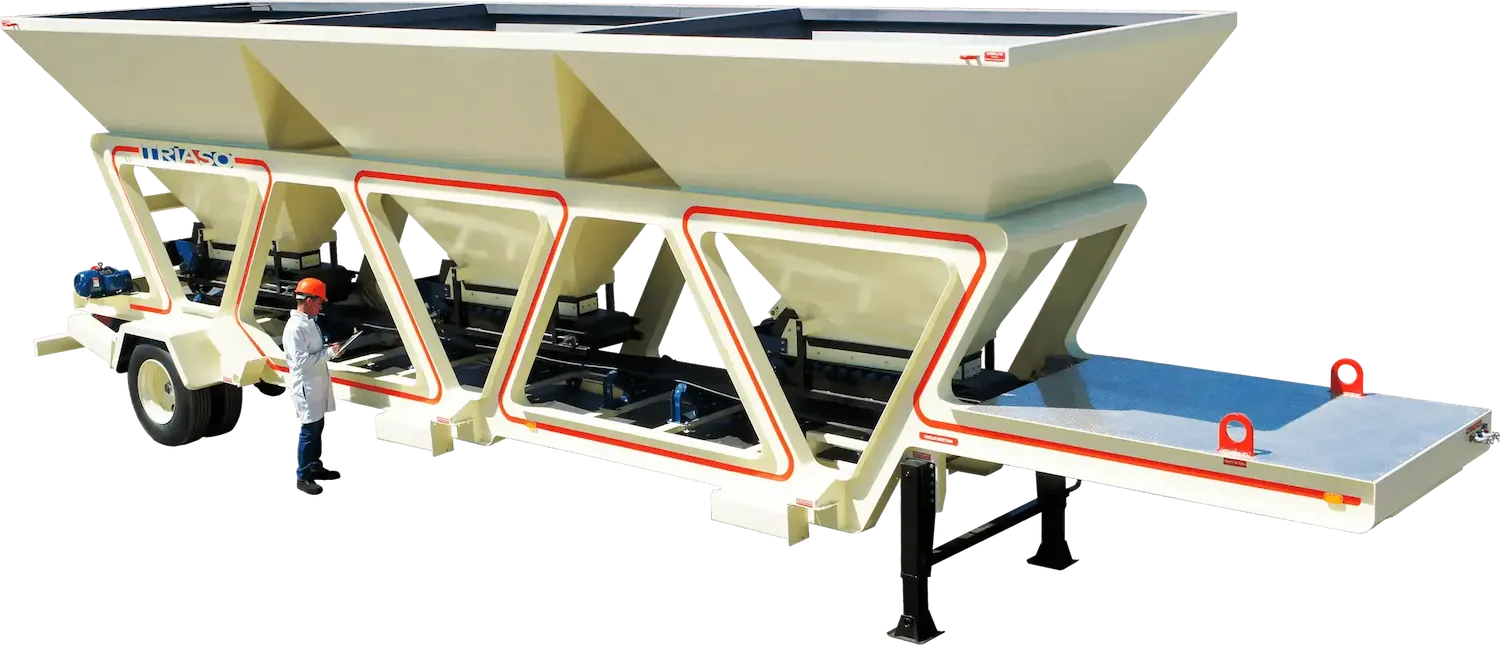
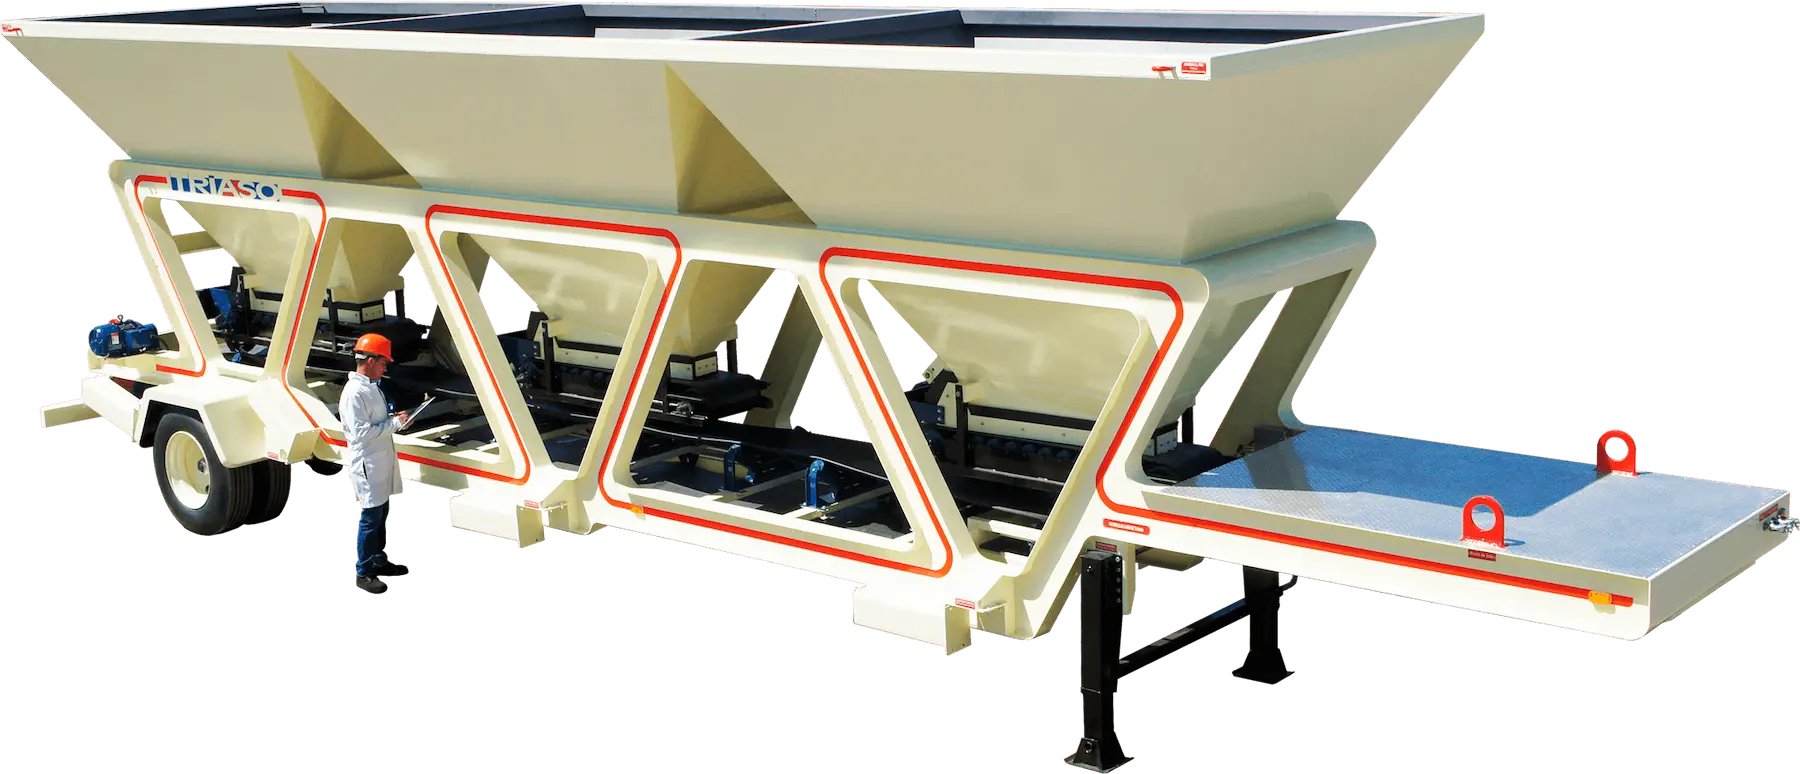
Update: replace tolva image corrupted

diff --git a/src/components/AsphaltPlants/CardSection.tsx b/src/components/AsphaltPlants/CardSection.tsx
@@ -42,6 +42,8 @@ const items = [
   {
     text: "OPERACIÓN CONTINUA",
     img: icon8,
+    // Se oculta en móvil para que la cuadrícula quede en 2 × 4.
+    hideOnMobile: true,
   },
   {
     text: "BAJO CONSUMO DE COMBUSTIBLE",
@@ -115,11 +117,11 @@ const CARDS: CardData[] = [
     scrollWeight: 1.2,
     content: (
       <div className="max-w-7xl mx-auto px-2 sm:px-4 lg:px-8 space-y-4 lg:space-y-5">
-        <div className="grid grid-cols-3 sm:grid-cols-3 lg:grid-cols-3 place-items-center gap-3 sm:gap-5 lg:gap-8 w-full">
+        <div className="grid grid-cols-2 sm:grid-cols-3 lg:grid-cols-3 place-items-center gap-3 sm:gap-5 lg:gap-8 w-full">
           {items.map((item, index) => (
             <div
               key={index}
-              className={`flex flex-col items-center justify-center text-center w-full ${
+              className={`${item.hideOnMobile ? "hidden sm:flex" : "flex"} flex-col items-center justify-center text-center w-full ${
                 items.length % 3 !== 0 &&
                 index >= items.length - (items.length % 3)
                   ? "last:col-span-1"
